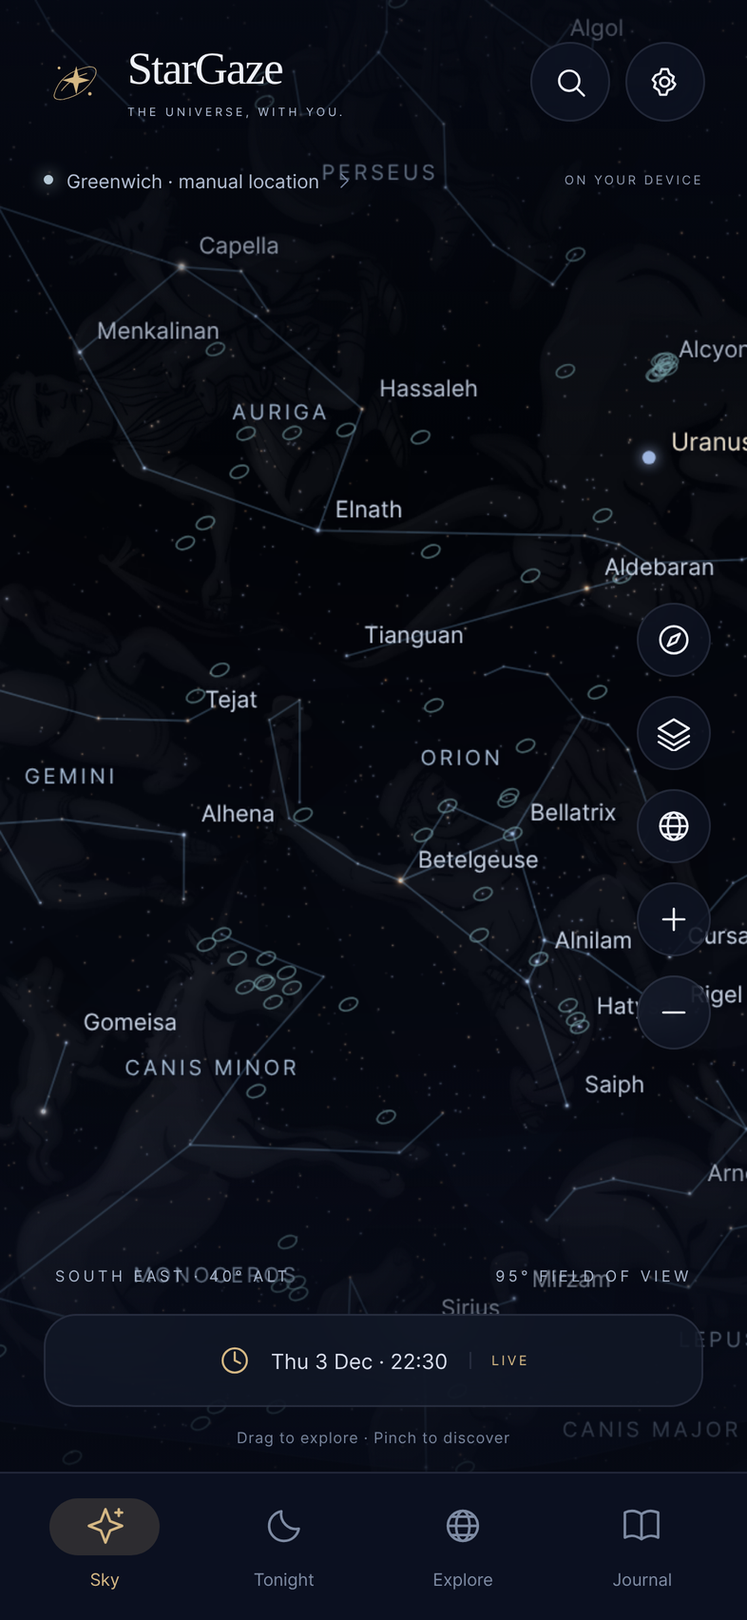
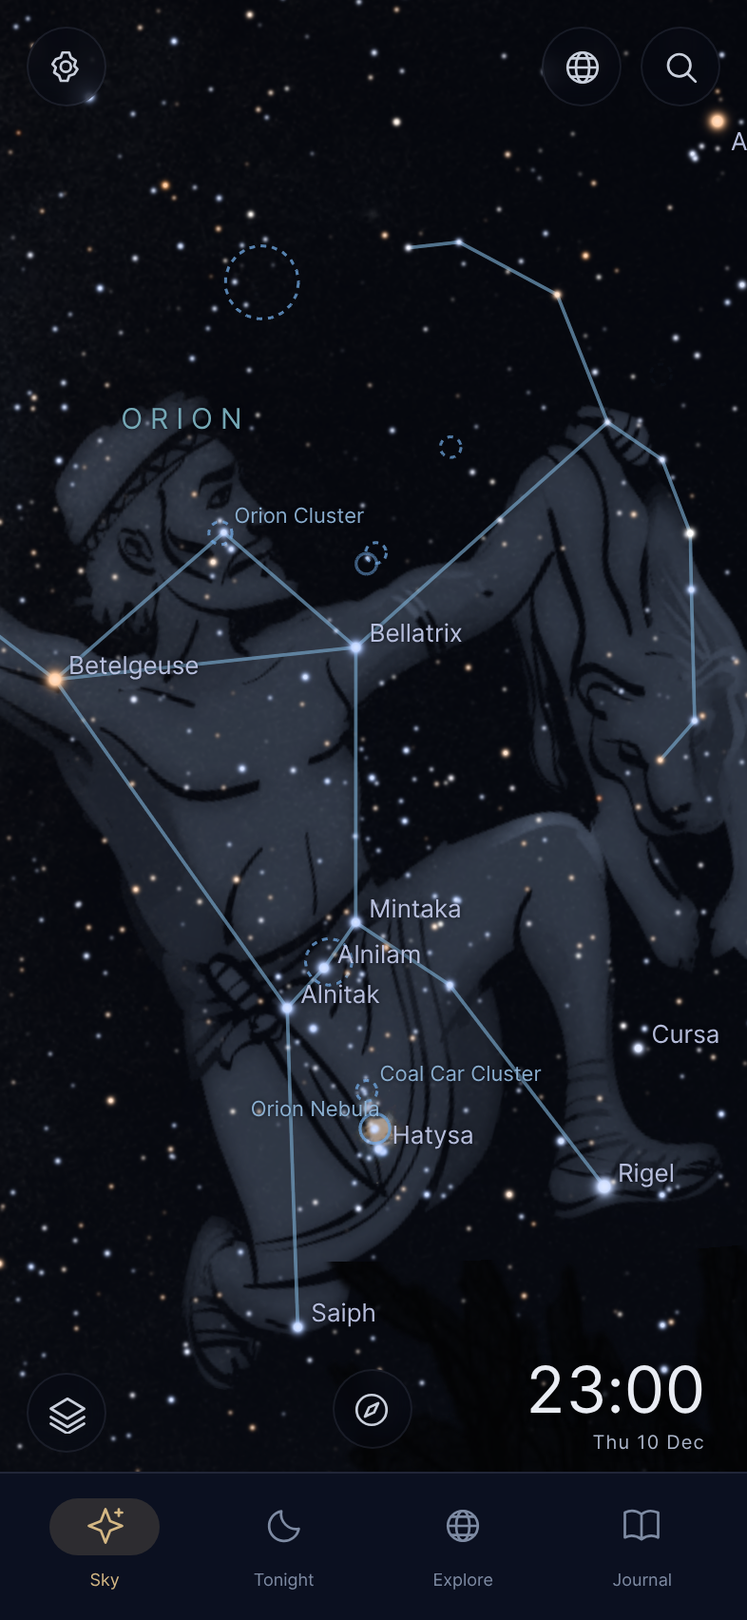
StarGaze 2.0.0 website

diff --git a/index.html b/index.html
@@ -4,7 +4,7 @@
 <meta charset="utf-8">
 <meta name="viewport" content="width=device-width, initial-scale=1">
 <title>StarGaze: a free, private night-sky app for Android that works offline</title>
-<meta name="description" content="StarGaze is a free Android star map with 119,625 stars, 89,868 deep-sky objects and all 88 constellations on your phone, a Tonight planner, phone pointing, a photo planner and a private observing journal. No adverts, no account, no tracking.">
+<meta name="description" content="StarGaze is a free Android star map with 2.5 million stars, 89,868 deep-sky objects, 320 deep-sky photographs, the Milky Way and all 88 constellations on your phone, a Tonight planner, phone pointing, a photo planner and a private observing journal. No adverts, no account, no tracking.">
 <meta name="author" content="Jonathan Jackson">
 <link rel="canonical" href="https://customgpter.github.io/stargaze/">
 <meta name="theme-color" content="#f3f1ec" media="(prefers-color-scheme: light)">
@@ -12,7 +12,7 @@
 <meta property="og:type" content="website">
 <meta property="og:site_name" content="StarGaze">
 <meta property="og:title" content="StarGaze: a free, private night-sky app for Android that works offline">
-<meta property="og:description" content="StarGaze is a free Android star map with 119,625 stars, 89,868 deep-sky objects and all 88 constellations on your phone, a Tonight planner, phone pointing, a photo planner and a private observing journal. No adverts, no account, no tracking.">
+<meta property="og:description" content="StarGaze is a free Android star map with 2.5 million stars, 89,868 deep-sky objects, 320 deep-sky photographs, the Milky Way and all 88 constellations on your phone, a Tonight planner, phone pointing, a photo planner and a private observing journal. No adverts, no account, no tracking.">
 <meta property="og:url" content="https://customgpter.github.io/stargaze/">
 <meta property="og:image" content="https://customgpter.github.io/stargaze/assets/og.png">
 <meta property="og:image:width" content="1200">
@@ -28,7 +28,7 @@
 <link rel="stylesheet" href="./assets/house.css?v=1">
 <link rel="stylesheet" href="./assets/apps-list.css?v=1">
 <script src="./assets/apps-list.js?v=1" defer></script>
-<script type="application/ld+json">{"@context":"https://schema.org","@type":"SoftwareApplication","name":"StarGaze","url":"https://customgpter.github.io/stargaze/","description":"StarGaze is a free Android star map with 119,625 stars, 89,868 deep-sky objects and all 88 constellations on your phone, a Tonight planner, phone pointing, a photo planner and a private observing journal. No adverts, no account, no tracking.","applicationCategory":"EducationalApplication","operatingSystem":"Android 11 or later","softwareVersion":"1.0.1","downloadUrl":"https://github.com/CustomGPTer/stargaze/releases/latest/download/StarGaze.apk","releaseNotes":"https://customgpter.github.io/stargaze/releases.html","offers":{"@type":"Offer","price":"0","priceCurrency":"GBP"},"inLanguage":"en-GB","image":"https://customgpter.github.io/stargaze/assets/og.png","featureList":["119,625 stars","89,868 deep-sky objects","All 88 constellations","The Sun, Moon and planets","Globes you can turn","Tonight","24-hour views and a sky calendar","Photo planner","Phone pointing","Camera view","Gaia, SIMBAD and NASA JPL","Weather, satellites and sky cultures"],"author":{"@type":"Person","name":"Jonathan Jackson"}}</script>
+<script type="application/ld+json">{"@context":"https://schema.org","@type":"SoftwareApplication","name":"StarGaze","url":"https://customgpter.github.io/stargaze/","description":"StarGaze is a free Android star map with 2.5 million stars, 89,868 deep-sky objects, 320 deep-sky photographs, the Milky Way and all 88 constellations on your phone, a Tonight planner, phone pointing, a photo planner and a private observing journal. No adverts, no account, no tracking.","applicationCategory":"EducationalApplication","operatingSystem":"Android 11 or later","softwareVersion":"2.0.0","downloadUrl":"https://github.com/CustomGPTer/stargaze/releases/latest/download/StarGaze.apk","releaseNotes":"https://customgpter.github.io/stargaze/releases.html","offers":{"@type":"Offer","price":"0","priceCurrency":"GBP"},"inLanguage":"en-GB","image":"https://customgpter.github.io/stargaze/assets/og.png","featureList":["2.5 million stars","89,868 deep-sky objects","All 88 constellations","The Sun, Moon and planets","Globes you can turn","Tonight","24-hour views and a sky calendar","Photo planner","Phone pointing","Camera view","Gaia, SIMBAD and NASA JPL","Weather, satellites and sky cultures"],"author":{"@type":"Person","name":"Jonathan Jackson"}}</script>
 <script type="application/ld+json">{"@context":"https://schema.org","@type":"FAQPage","mainEntity":[{"@type":"Question","name":"Is StarGaze really free?","acceptedAnswer":{"@type":"Answer","text":"Yes. There is no paid version, no subscription and no adverts, and nothing in the app is locked."}},{"@type":"Question","name":"Is it on Google Play?","acceptedAnswer":{"@type":"Answer","text":"No. StarGaze is a personal project and is downloaded from this site as an Android app file. It needs Android 11 or later and an up-to-date Android System WebView, which comes with every current phone."}},{"@type":"Question","name":"Does it need the internet?","acceptedAnswer":{"@type":"Answer","text":"No. The stars, deep-sky objects, constellations, planets, Tonight, search, journal and planner all work offline. Online access starts switched off. Turn it on in Privacy & data only if you want Gaia stars, SIMBAD, NASA JPL objects, survey photos, weather, satellite data or extra sky cultures."}},{"@type":"Question","name":"Does it need my location?","acceptedAnswer":{"@type":"Answer","text":"No. You can choose a town or type coordinates. If you tap Use device location, Android gives StarGaze one position, which is saved as your observing place. It never runs in the background."}},{"@type":"Question","name":"How accurate is it?","acceptedAnswer":{"@type":"Answer","text":"Positions of the Sun, Moon and planets come from Astronomy Engine, and star positions from the HYG catalogue with each star's own motion. Phone pointing depends on your phone's compass, which metal, magnets and cases can upset. Calibrate it with a figure-of-eight movement."}},{"@type":"Question","name":"Can it control my telescope?","acceptedAnswer":{"@type":"Answer","text":"No. StarGaze has no telescope control, by design."}},{"@type":"Question","name":"What does a service see when I go online?","acceptedAnswer":{"@type":"Answer","text":"Your IP address and what that request needs: a patch of sky for Gaia, SIMBAD and survey photos, an object, time and your place for NASA JPL, your place rounded to about 1 km for the weather. Your journal is never sent anywhere."}},{"@type":"Question","name":"Are the planet globes real photos?","acceptedAnswer":{"@type":"Answer","text":"They are maps of each world wrapped on a globe, to explore at your leisure. The Milky Way, landscapes and Saturn's rings are illustrations."}},{"@type":"Question","name":"Do the satellite passes tell me what I will see?","acceptedAnswer":{"@type":"Answer","text":"They tell you when a satellite is more than 10&deg; above your horizon. They do not say whether it is lit by the Sun, so not every pass is visible."}},{"@type":"Question","name":"How do I keep my journal safe?","acceptedAnswer":{"@type":"Answer","text":"Settings, Backup & restore exports your journal, list and settings to a file where you choose. The file is not encrypted, so keep it private. Uninstalling StarGaze removes anything you have not exported."}},{"@type":"Question","name":"How do I get new versions?","acceptedAnswer":{"@type":"Answer","text":"Open Settings and tap Check for updates. With online access on, StarGaze asks GitHub for the newest version and opens the download in your browser. With it off, it opens this site's releases page. Install the new file over the old one."}},{"@type":"Question","name":"Who made it?","acceptedAnswer":{"@type":"Answer","text":"StarGaze is made by Jonathan Jackson, an independent developer in the United Kingdom. It is not connected with Stellarium, ESA, NASA, CDS or any of the data providers it credits."}}]}</script>
 </head>
 <body>
@@ -48,23 +48,23 @@
 <p class="lede">StarGaze is a star map for Android that works without a connection. Hold your phone up and the sky follows it: stars, planets, the Moon, deep-sky objects and the 88 constellations, in the right place for where you are and when.</p><p class="lede">It is free, with no adverts, no account and nothing to unlock. Online extras are off until you choose them, and your journal never leaves your phone.</p>
 
 <p class="get" id="download"><a class="button" href="https://github.com/CustomGPTer/stargaze/releases/latest/download/StarGaze.apk"><svg class="ico" viewBox="0 0 24 24" aria-hidden="true"><path d="M12 4v11"/><path d="M7 10.5l5 5 5-5"/><path d="M5 20h14"/></svg>Download for Android</a><a class="aside" href="#install">How to install</a></p>
-<ul class="pills"><li>Version 1.0.1</li><li>Android 11 or later</li><li>11.6 MB</li></ul>
+<ul class="pills"><li>Version 2.0.0</li><li>Android 11 or later</li><li>60.6 MB</li></ul>
 <p class="facts">Free, with nothing to unlock. No adverts, no account with the developer, no tracking. <a href="compare.html">Compare</a> or read the <a href="releases.html">release notes</a>.</p>
 <p class="facts">Chrome may say the file might be harmful. It shows this for app files that do not come from Google Play. Choose Download anyway.</p>
 </div>
-<div class="hero-phone"><div class="phone"><img src="./assets/screens/sky.png" alt="The sky: Orion, Taurus and Auriga with constellation lines, names and the western artwork. Drag to look around, pinch to zoom." width="393" height="852" fetchpriority="high"></div></div>
+<div class="hero-phone"><div class="phone"><img src="./assets/screens/sky.png" alt="The sky: Orion with its lines, name and drawing pinned to its stars. Drag to look around, pinch to zoom, tap the sky to hide the controls." width="393" height="852" fetchpriority="high"></div></div>
 </div>
 </div>
 
 <section class="promises" aria-label="In short">
-<div class="wrap"><ul><li><svg class="ico" viewBox="0 0 24 24" aria-hidden="true"><circle cx="12" cy="12" r="8.5"/><path d="M8.6 12.4l2.3 2.3 4.5-4.9"/></svg><span><b>No adverts</b><span>None in the app and none on this site.</span></span></li><li><svg class="ico" viewBox="0 0 24 24" aria-hidden="true"><circle cx="12" cy="12" r="8.5"/><path d="M8.6 12.4l2.3 2.3 4.5-4.9"/></svg><span><b>No account</b><span>Open it and look up.</span></span></li><li><svg class="ico" viewBox="0 0 24 24" aria-hidden="true"><circle cx="12" cy="12" r="8.5"/><path d="M8.6 12.4l2.3 2.3 4.5-4.9"/></svg><span><b>Works offline</b><span>119,625 stars and 89,868 deep-sky objects are in the app.</span></span></li><li><svg class="ico" viewBox="0 0 24 24" aria-hidden="true"><circle cx="12" cy="12" r="8.5"/><path d="M8.6 12.4l2.3 2.3 4.5-4.9"/></svg><span><b>Online is off</b><span>Extra catalogues, weather and imagery only when you switch them on.</span></span></li></ul></div>
+<div class="wrap"><ul><li><svg class="ico" viewBox="0 0 24 24" aria-hidden="true"><circle cx="12" cy="12" r="8.5"/><path d="M8.6 12.4l2.3 2.3 4.5-4.9"/></svg><span><b>No adverts</b><span>None in the app and none on this site.</span></span></li><li><svg class="ico" viewBox="0 0 24 24" aria-hidden="true"><circle cx="12" cy="12" r="8.5"/><path d="M8.6 12.4l2.3 2.3 4.5-4.9"/></svg><span><b>No account</b><span>Open it and look up.</span></span></li><li><svg class="ico" viewBox="0 0 24 24" aria-hidden="true"><circle cx="12" cy="12" r="8.5"/><path d="M8.6 12.4l2.3 2.3 4.5-4.9"/></svg><span><b>Works offline</b><span>2.5 million stars, 89,868 deep-sky objects and 320 photographs are in the app.</span></span></li><li><svg class="ico" viewBox="0 0 24 24" aria-hidden="true"><circle cx="12" cy="12" r="8.5"/><path d="M8.6 12.4l2.3 2.3 4.5-4.9"/></svg><span><b>Online is off</b><span>Extra catalogues, weather and imagery only when you switch them on.</span></span></li></ul></div>
 </section>
 
 <section id="screens" aria-labelledby="screens-h">
 <div class="wrap">
 <h2 id="screens-h">A look inside</h2>
 <p class="intro">These are the real screens, drawn from the app&#x27;s own files on a December evening at Greenwich. Swipe or scroll sideways to see them all.</p>
-<div class="gallery" tabindex="0" role="region" aria-label="Screens from StarGaze"><figure class="shot"><div class="phone"><img src="./assets/screens/sky.png" alt="The sky: Orion, Taurus and Auriga with constellation lines, names and the western artwork. Drag to look around, pinch to zoom." width="393" height="852" loading="eager" decoding="async"></div><figcaption>The sky: Orion, Taurus and Auriga with constellation lines, names and the western artwork. Drag to look around, pinch to zoom.</figcaption></figure><figure class="shot"><div class="phone"><img src="./assets/screens/tonight.png" alt="Tonight: the Moon&#x27;s phase, sunset and full darkness, and the best targets above your horizon right now." width="393" height="852" loading="eager" decoding="async"></div><figcaption>Tonight: the Moon&#x27;s phase, sunset and full darkness, and the best targets above your horizon right now.</figcaption></figure><figure class="shot"><div class="phone"><img src="./assets/screens/object.png" alt="Any object in detail: Jupiter as a globe you can turn, with its position, brightness and distance." width="393" height="852" loading="eager" decoding="async"></div><figcaption>Any object in detail: Jupiter as a globe you can turn, with its position, brightness and distance.</figcaption></figure><figure class="shot"><div class="phone"><img src="./assets/screens/framing.png" alt="The photo planner: your camera&#x27;s field of view drawn on the sky, here a 50 mm lens on an APS-C camera framing Orion." width="393" height="852" loading="eager" decoding="async"></div><figcaption>The photo planner: your camera&#x27;s field of view drawn on the sky, here a 50 mm lens on an APS-C camera framing Orion.</figcaption></figure><figure class="shot"><div class="phone"><img src="./assets/screens/explore.png" alt="Explore the solar system, the 88 constellations, the deep sky and four guided journeys." width="393" height="852" loading="eager" decoding="async"></div><figcaption>Explore the solar system, the 88 constellations, the deep sky and four guided journeys.</figcaption></figure><figure class="shot"><div class="phone"><img src="./assets/screens/search.png" alt="Search stars, planets, constellations and catalogue numbers such as M31, NGC 7000 or HIP 27989." width="393" height="852" loading="eager" decoding="async"></div><figcaption>Search stars, planets, constellations and catalogue numbers such as M31, NGC 7000 or HIP 27989.</figcaption></figure><figure class="shot"><div class="phone"><img src="./assets/screens/journal.png" alt="A private journal: what you saw, when, with what, and a photo if you like. Kept on your phone." width="393" height="852" loading="eager" decoding="async"></div><figcaption>A private journal: what you saw, when, with what, and a photo if you like. Kept on your phone.</figcaption></figure><figure class="shot"><div class="phone"><img src="./assets/screens/privacy.png" alt="Privacy in plain words: online access starts off, and every service the app can contact is listed." width="393" height="852" loading="eager" decoding="async"></div><figcaption>Privacy in plain words: online access starts off, and every service the app can contact is listed.</figcaption></figure></div>
+<div class="gallery" tabindex="0" role="region" aria-label="Screens from StarGaze"><figure class="shot"><div class="phone"><img src="./assets/screens/sky.png" alt="The sky: Orion with its lines, name and drawing pinned to its stars. Drag to look around, pinch to zoom, tap the sky to hide the controls." width="393" height="852" loading="eager" decoding="async"></div><figcaption>The sky: Orion with its lines, name and drawing pinned to its stars. Drag to look around, pinch to zoom, tap the sky to hide the controls.</figcaption></figure><figure class="shot"><div class="phone"><img src="./assets/screens/tonight.png" alt="Tonight: the Moon&#x27;s phase, sunset and full darkness, and the best targets above your horizon right now." width="393" height="852" loading="eager" decoding="async"></div><figcaption>Tonight: the Moon&#x27;s phase, sunset and full darkness, and the best targets above your horizon right now.</figcaption></figure><figure class="shot"><div class="phone"><img src="./assets/screens/object.png" alt="Any object in detail: Jupiter as a globe you can turn, with its position, brightness and distance." width="393" height="852" loading="eager" decoding="async"></div><figcaption>Any object in detail: Jupiter as a globe you can turn, with its position, brightness and distance.</figcaption></figure><figure class="shot"><div class="phone"><img src="./assets/screens/framing.png" alt="The photo planner: your camera&#x27;s field of view drawn on the sky, here a 50 mm lens on an APS-C camera framing Orion." width="393" height="852" loading="eager" decoding="async"></div><figcaption>The photo planner: your camera&#x27;s field of view drawn on the sky, here a 50 mm lens on an APS-C camera framing Orion.</figcaption></figure><figure class="shot"><div class="phone"><img src="./assets/screens/explore.png" alt="Explore the solar system, the 88 constellations, the deep sky and eight guided journeys." width="393" height="852" loading="eager" decoding="async"></div><figcaption>Explore the solar system, the 88 constellations, the deep sky and eight guided journeys.</figcaption></figure><figure class="shot"><div class="phone"><img src="./assets/screens/search.png" alt="Search stars, planets, constellations and catalogue numbers such as M31, NGC 7000 or HIP 27989." width="393" height="852" loading="eager" decoding="async"></div><figcaption>Search stars, planets, constellations and catalogue numbers such as M31, NGC 7000 or HIP 27989.</figcaption></figure><figure class="shot"><div class="phone"><img src="./assets/screens/journal.png" alt="A private journal: what you saw, when, with what, and a photo if you like. Kept on your phone." width="393" height="852" loading="eager" decoding="async"></div><figcaption>A private journal: what you saw, when, with what, and a photo if you like. Kept on your phone.</figcaption></figure><figure class="shot"><div class="phone"><img src="./assets/screens/privacy.png" alt="Privacy in plain words: online access starts off, and every service the app can contact is listed." width="393" height="852" loading="eager" decoding="async"></div><figcaption>Privacy in plain words: online access starts off, and every service the app can contact is listed.</figcaption></figure></div>
 </div>
 </section>
 
@@ -80,7 +80,7 @@
 <div class="wrap">
 <h2 id="features-h">Everything is in, and all of it is free</h2>
 <p class="intro">Nothing below is held back for a paid tier, because there is no paid tier.</p>
-<div class="groups"><div class="group"><h3>The sky on your phone</h3><dl><div><dt>119,625 stars</dt><dd>From the HYG catalogue, with their colours and real motion across the sky, plus names for the bright ones.</dd></div><div><dt>89,868 deep-sky objects</dt><dd>Galaxies, nebulae and clusters, with all 110 Messier objects and their own names.</dd></div><div><dt>All 88 constellations</dt><dd>Lines, official boundaries, asterisms and the classic western artwork, or the traditional Chinese sky.</dd></div></dl></div><div class="group"><h3>Our solar system</h3><dl><div><dt>The Sun, Moon and planets</dt><dd>Worked out on your phone for any date from 1900 to 2100, drawn at their true size when you zoom in, with the Moon's phase facing the Sun.</dd></div><div><dt>Globes you can turn</dt><dd>The Sun, Moon and planets as globes, the Moon lit for tonight's phase, and an orbit view of the inner and outer planets.</dd></div></dl></div><div class="group"><h3>Plan a night out</h3><dl><div><dt>Tonight</dt><dd>The Moon's phase, sunset and full darkness, and a ranked list of what is above your horizon.</dd></div><div><dt>24-hour views and a sky calendar</dt><dd>How high any object climbs over the day and night, plus Moon phases, eclipses, solstices and meteor showers, with reminders.</dd></div><div><dt>Photo planner</dt><dd>Your camera and lens drawn on the sky as a frame, with a 2 &times; 2 mosaic and a starting exposure.</dd></div></dl></div><div class="group"><h3>Point and find</h3><dl><div><dt>Phone pointing</dt><dd>Hold your phone up and the map follows it, corrected for true north where you are.</dd></div><div><dt>Camera view</dt><dd>Optional: the sky drawn over your camera's picture, matched to its field of view. Nothing is recorded.</dd></div></dl></div><div class="group"><h3>Go further, if you want</h3><dl><div><dt>Gaia, SIMBAD and NASA JPL</dt><dd>Load faint stars from Gaia DR3 a region at a time, more deep-sky objects from SIMBAD, and comets, asteroids and moons from NASA JPL. Saved for offline use.</dd></div><div><dt>Weather, satellites and sky cultures</dt><dd>An Open-Meteo cloud forecast, satellite passes from CelesTrak, 37 more sky cultures and DSS survey photos.</dd></div></dl></div><div class="group"><h3>Private by design</h3><dl><div><dt>Online access starts off</dt><dd>Every online feature waits until you switch it on, and switching it off stops any request in progress.</dd></div><div><dt>Your journal stays yours</dt><dd>Journal, list and settings live in the app's private storage. Phone backups leave them out. Export a backup file when you want one.</dd></div></dl></div></div>
+<div class="groups"><div class="group"><h3>The sky on your phone</h3><dl><div><dt>2.5 million stars</dt><dd>From the HYG and AT-HYG catalogues, with their real colours, shown deeper as you zoom in, plus names for the bright ones.</dd></div><div><dt>89,868 deep-sky objects</dt><dd>Galaxies, nebulae and clusters, with all 110 Messier objects, and real photographs of 320 of them that fade in as you zoom.</dd></div><div><dt>All 88 constellations</dt><dd>Lines, official boundaries, asterisms and the classic western artwork pinned to its stars, showing the constellation in the middle of the screen, or the traditional Chinese sky.</dd></div></dl></div><div class="group"><h3>Our solar system</h3><dl><div><dt>The Sun, Moon and planets</dt><dd>Worked out on your phone for any date from 1900 to 2100, drawn at their true size when you zoom in, with the Moon's phase facing the Sun.</dd></div><div><dt>Globes you can turn</dt><dd>The Sun, Moon and planets as globes, the Moon lit for tonight's phase, and an orbit view of the inner and outer planets.</dd></div></dl></div><div class="group"><h3>Plan a night out</h3><dl><div><dt>Tonight</dt><dd>The Moon's phase, sunset and full darkness, and a ranked list of what is above your horizon.</dd></div><div><dt>24-hour views and a sky calendar</dt><dd>How high any object climbs over the day and night, plus Moon phases, eclipses, solstices and meteor showers, with reminders.</dd></div><div><dt>Photo planner</dt><dd>Your camera and lens drawn on the sky as a frame, with a 2 &times; 2 mosaic and a starting exposure.</dd></div></dl></div><div class="group"><h3>Point and find</h3><dl><div><dt>Phone pointing</dt><dd>Hold your phone up and the map follows it, corrected for true north where you are.</dd></div><div><dt>Camera view</dt><dd>Optional: the sky drawn over your camera's picture, matched to its field of view. Nothing is recorded.</dd></div></dl></div><div class="group"><h3>Go further, if you want</h3><dl><div><dt>Gaia, SIMBAD and NASA JPL</dt><dd>Load faint stars from Gaia DR3 a region at a time, more deep-sky objects from SIMBAD, and comets, asteroids and moons from NASA JPL. Saved for offline use.</dd></div><div><dt>Weather, satellites and sky cultures</dt><dd>An Open-Meteo cloud forecast, satellite passes from CelesTrak, 37 more sky cultures and DSS survey photos.</dd></div></dl></div><div class="group"><h3>Private by design</h3><dl><div><dt>Online access starts off</dt><dd>Every online feature waits until you switch it on, and switching it off stops any request in progress.</dd></div><div><dt>Your journal stays yours</dt><dd>Journal, list and settings live in the app's private storage. Phone backups leave them out. Export a backup file when you want one.</dd></div></dl></div></div>
 </div>
 </section>
 
@@ -95,8 +95,8 @@
 <div class="wrap">
 <h2 id="install-h">Installing and updating</h2>
 <p class="intro">StarGaze is not on Google Play, so your phone asks a couple of extra questions the first time.</p>
-<ol class="steps"><li><h3>Download the app file</h3><p>Tap Download on your phone. The file is called StarGaze.apk and is about 11.6 MB. If Chrome says the file might be harmful, choose Download anyway.</p></li><li><h3>Allow the install</h3><p>Open the file. The first time, Android asks you to allow your browser to install apps. Allow it, go back and tap Install. If Google Play Protect steps in, choose More details, then Install anyway.</p></li><li><h3>Updating later</h3><p>In StarGaze, open Settings and tap Check for updates. With online access on, it asks GitHub for the newest version; with it off, it opens this site's releases page. Install the new file over the old one and your journal, list and settings are kept.</p></li></ol>
-<p class="after-table">Version 1.0.1, released 26 November 2026. See the <a href="releases.html">release notes</a>, or <a href="releases.html#checking">check your download</a>.</p>
+<ol class="steps"><li><h3>Download the app file</h3><p>Tap Download on your phone. The file is called StarGaze.apk and is about 60.6 MB. If Chrome says the file might be harmful, choose Download anyway.</p></li><li><h3>Allow the install</h3><p>Open the file. The first time, Android asks you to allow your browser to install apps. Allow it, go back and tap Install. If Google Play Protect steps in, choose More details, then Install anyway.</p></li><li><h3>Updating later</h3><p>In StarGaze, open Settings and tap Check for updates. With online access on, it asks GitHub for the newest version; with it off, it opens this site's releases page. Install the new file over the old one and your journal, list and settings are kept.</p></li></ol>
+<p class="after-table">Version 2.0.0, released 26 November 2026. See the <a href="releases.html">release notes</a>, or <a href="releases.html#checking">check your download</a>.</p>
 </div>
 </section>
 

diff --git a/releases.html b/releases.html
@@ -43,10 +43,11 @@
 <div class="measure">
 <h1>Release notes</h1>
 <p class="lede">What changed in each version of StarGaze. The newest is at the top.</p>
-<section class="release" id="v1.0.1"><h2><span class="ver">Version 1.0.1</span> <span class="when">26 November 2026</span><span class="tag">Latest</span></h2><ul><li><b>First public release.</b> 119,625 stars, 89,868 deep-sky objects with all 110 Messier objects, and the 88 constellations with lines, boundaries, asterisms and western artwork, all offline.</li><li>The Sun, Moon and planets for any date from 1900 to 2100, now drawn at their true size when you zoom in, with the Moon's lit side facing the Sun.</li><li>Tonight now shows the Moon at tonight's phase, with sunset, full darkness and the best targets above your horizon.</li><li>Phone pointing, and an optional camera view that now fills the screen without stretching, works sideways too, and matches the camera's field of view.</li><li>Search, 24-hour altitude views, a sky calendar with reminders, four guided journeys, a photo planner and a private observing journal with photos.</li><li>Optional online extras, all off until you switch them on: Gaia DR3 stars, SIMBAD, NASA JPL objects, survey photos, weather, satellite passes and 37 more sky cultures.</li><li>New: Check for updates, More apps and the StarGaze website in Settings and About, and "Developed by Jonathan Jackson &copy;".</li><li>New: an adaptive app icon with a themed version, and a proper reminder icon (reminders showed a blank square).</li><li>Fixes: the selected tab now shows a pill behind its icon on a solid bottom bar; a cancelled touch no longer stops the next drag; opening a saved Gaia field zooms to that field; Earth no longer shows a made-up sky position; a late location time-out no longer cancels a newer request; satellite passes still calculate if the phone's WebView cannot start a background task; changing dark mode, display size or split screen no longer restarts the app.</li></ul></section>
+<section class="release" id="v2.0.0"><h2><span class="ver">Version 2.0.0</span> <span class="when">26 November 2026</span><span class="tag">Latest</span></h2><ul><li><b>A new sky.</b> Stars, constellation drawings, lines, the Moon, planets and the ground are now drawn together, sharper and smoother.</li><li>Constellation drawings are pinned to their stars and only the constellation in the middle of the screen is shown, so the sky is never cramped. Switch Centred only off in Layers to see them all.</li><li>Detail grows as you zoom: fainter stars, then galaxy, nebula and cluster markers, then their names. Labels no longer overlap.</li><li>2.5 million stars offline, a real photograph of the Milky Way, and real photographs of 320 galaxies, nebulae and clusters that fade in as you zoom.</li><li>The Moon and planets as lit globes with detailed surfaces and true phases.</li><li>A real ground to stand on: a field with trees, rolling hills, open moor or a winter snowfield, or trace your own skyline with the camera.</li><li>A realistic sky: blue by day, sunset colours, stars appearing through twilight, and moonlight and light pollution brightening the sky.</li><li>A full-screen sky with small controls at the edges. Tap the sky to hide them. The globe button gives a round view of the whole sky.</li><li>A new time panel over the sky: step by an hour or a day, slide through the night, jump to sunset, darkness, moonrise, sunrise or the next full Moon, and speed time up.</li><li>Tap anything to see its brightness, height and rise and set times. An arrow at the edge of the screen points the way to the object you chose.</li><li>New: eyepiece view in the photo planner, red night mode that switches on after dark, smoother phone pointing and four new guided tours.</li><li>Installs over 1.0.1 and keeps your journal, list and settings.</li></ul></section>
+<section class="release" id="v1.0.1"><h2><span class="ver">Version 1.0.1</span> <span class="when">26 November 2026</span></h2><ul><li><b>First public release.</b> 119,625 stars, 89,868 deep-sky objects with all 110 Messier objects, and the 88 constellations with lines, boundaries, asterisms and western artwork, all offline.</li><li>The Sun, Moon and planets for any date from 1900 to 2100, now drawn at their true size when you zoom in, with the Moon's lit side facing the Sun.</li><li>Tonight now shows the Moon at tonight's phase, with sunset, full darkness and the best targets above your horizon.</li><li>Phone pointing, and an optional camera view that now fills the screen without stretching, works sideways too, and matches the camera's field of view.</li><li>Search, 24-hour altitude views, a sky calendar with reminders, four guided journeys, a photo planner and a private observing journal with photos.</li><li>Optional online extras, all off until you switch them on: Gaia DR3 stars, SIMBAD, NASA JPL objects, survey photos, weather, satellite passes and 37 more sky cultures.</li><li>New: Check for updates, More apps and the StarGaze website in Settings and About, and "Developed by Jonathan Jackson &copy;".</li><li>New: an adaptive app icon with a themed version, and a proper reminder icon (reminders showed a blank square).</li><li>Fixes: the selected tab now shows a pill behind its icon on a solid bottom bar; a cancelled touch no longer stops the next drag; opening a saved Gaia field zooms to that field; Earth no longer shows a made-up sky position; a late location time-out no longer cancels a newer request; satellite passes still calculate if the phone's WebView cannot start a background task; changing dark mode, display size or split screen no longer restarts the app.</li></ul></section>
 <h2 id="checking">Checking your download</h2>
-<p>The file for version 1.0.1 is called <code>StarGaze.apk</code>. It is 11.6 MB (12,204,775 bytes). Its SHA-256 checksum is:</p>
-<p><code class="sum">12e21621a19c36af49910bda1bb248fa2a6ce25f313b9513d0ead6a44cf83a14</code></p>
+<p>The file for version 2.0.0 is called <code>StarGaze.apk</code>. It is 60.6 MB (63,583,943 bytes). Its SHA-256 checksum is:</p>
+<p><code class="sum">bdd7fe301f528bbadfbb7719f9fab91b2d2f3cae710c158f84c8349b42656edb</code></p>
 <p>On Windows, run <code>certutil -hashfile StarGaze.apk SHA256</code> and compare. Every version is signed with the same key, so each one installs over the last and keeps what you have saved.</p>
 <p>Older versions are on the <a href="https://github.com/CustomGPTer/stargaze/releases">GitHub releases page</a>.</p>
 </div>
